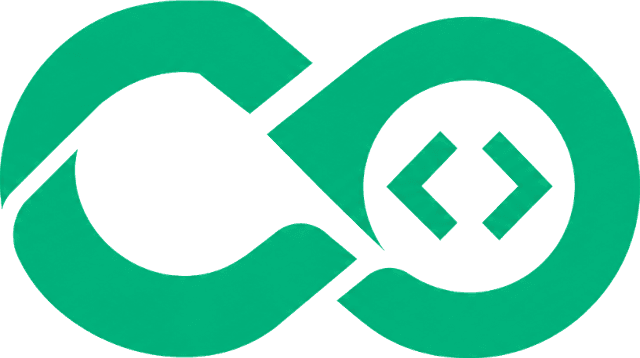
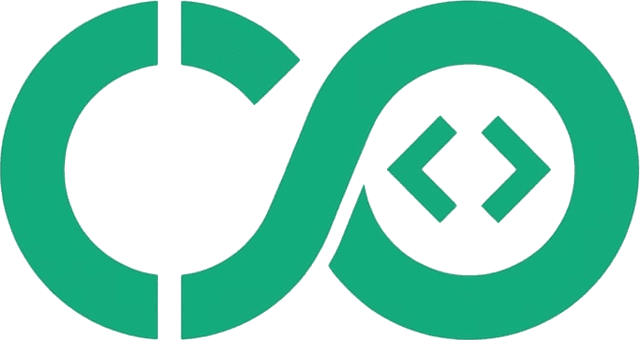
Replace the brand mark with the refined version
Same three derived assets from the new source; the lockup ratio follows the
tighter proportion.

diff --git a/src/components/layout/logo.tsx b/src/components/layout/logo.tsx
@@ -4,8 +4,8 @@ import { asset } from '@/lib/asset';
 import { cn } from '@/lib/utils';
 import { company } from '@/content/company';
 
-/** Intrinsic aspect ratio of public/brand/mark-color.png (640 x 358). */
-const LOGO_RATIO = 640 / 358;
+/** Intrinsic aspect ratio of public/brand/mark-color.png (640 x 340). */
+const LOGO_RATIO = 640 / 340;
 
 export function Logo({
   className,
